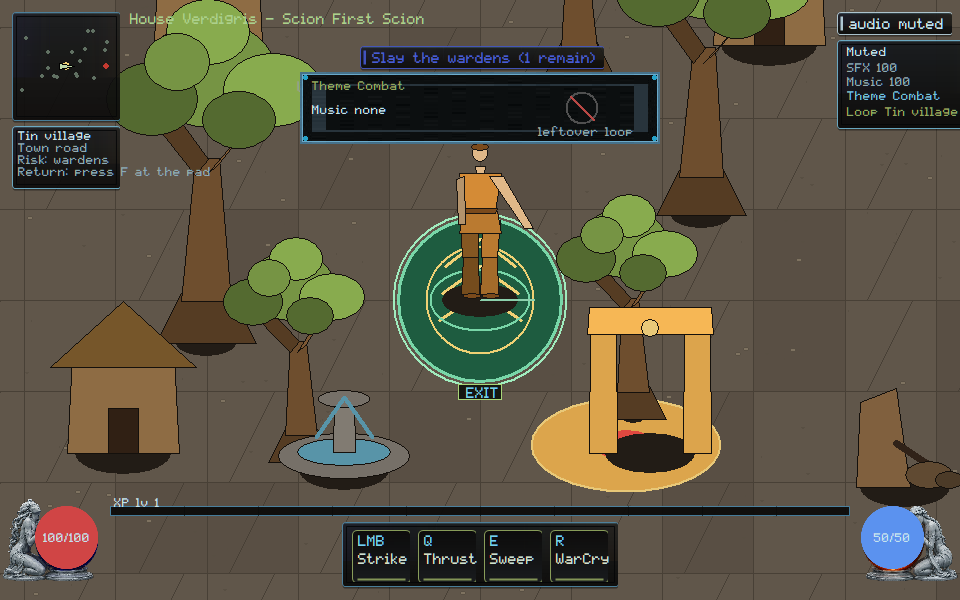
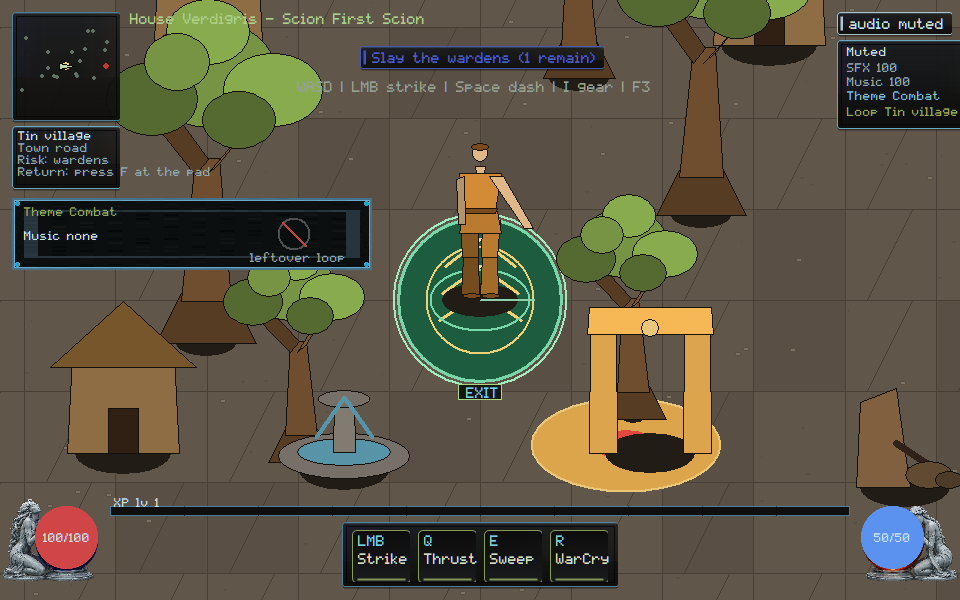
native: park Theme Combat off WASD and Tin village so covering combat HUD cannot certify

Changed region(s): [[0.0, 0.33, 0.4062, 0.45], [0.3125, 0.12, 0.6875, 0.24]]

diff --git a/native/client/main.cpp b/native/client/main.cpp
@@ -8381,8 +8381,12 @@ void paint_music_phase_review_strip(ClientState& state, HDC dc, const RECT& boun
   const int s = hud_scale(static_cast<int>(bounds.bottom));
   const int pane_w = 360 * s;
   const int pane_h = 72 * s;
-  const int left = (static_cast<int>(bounds.right) - pane_w) / 2;
-  const int top = 72 * s;
+  const HudRect parked =
+      park_review_strip(state, static_cast<int>(bounds.right),
+                        static_cast<int>(bounds.bottom), pane_w, pane_h);
+  const int left = parked.x;
+  const int top = parked.y;
+  state.hud_rect_trace.push_back({"music-phase-strip", parked});
   RECT pane{left, top, left + pane_w, top + pane_h};
   if (!draw_framekit_nine(state.billboards, dc, state.billboards.fk_panel, pane))
     skin::panel(dc, pane, skin::kVerdigris, 235, 8.0f);
@@ -14334,6 +14338,31 @@ int scenario_music_phase() {
   scenario_check(theme_combat && music_none,
                  "music-phase: live HUD names Theme Combat and Music none");
   scenario_check(leftover_loop, "music-phase: live HUD rejects leftover loop");
+  {
+    auto trace_find = [](const ClientState& s,
+                         const char* label) -> const HudRect* {
+      for (const auto& entry : s.hud_rect_trace)
+        if (entry.first == label) return &entry.second;
+      return nullptr;
+    };
+    const HudRect* strip = trace_find(capture, "music-phase-strip");
+    scenario_check(strip != nullptr, "music-phase: Theme Combat strip is traced");
+    const HudRect* ctrl = trace_find(capture, "controls");
+    const HudRect* objective = trace_find(capture, "objective");
+    const HudRect* route = trace_find(capture, "route-card");
+    const HudRect* life = trace_find(capture, "orb-life");
+    const bool covers =
+        (strip && ctrl && hud_rects_overlap(*strip, *ctrl)) ||
+        (strip && objective && hud_rects_overlap(*strip, *objective)) ||
+        (strip && route && hud_rects_overlap(*strip, *route)) ||
+        (strip && life && hud_rects_overlap(*strip, *life));
+    scenario_check(
+        verdigris::client::music::music_strip_covers_hud_fails_review(true),
+        "music-phase: covering WASD, the objective, Tin village, or Life is the anti-pattern");
+    scenario_check(
+        !verdigris::client::music::music_strip_covers_hud_fails_review(covers),
+        "music-phase: Theme Combat stays off WASD, the objective, Tin village, and Life");
+  }
   return scenario_failures;
 }
 

diff --git a/native/client/add-one-music-state-transition.hpp b/native/client/add-one-music-state-transition.hpp
@@ -31,6 +31,9 @@ inline const char* owner_theme_label(const std::string& want) {
 }
 
 inline const char* owner_music_none_label() { return "Music none"; }
+inline bool music_strip_covers_hud_fails_review(bool overlap) {
+  return overlap;
+}
 
 inline bool leftover_theme_fails_review(bool scene_loaded,
                                         const std::string& sent) {

diff --git a/orchestration/CURSOR_KIMI_LANES.md b/orchestration/CURSOR_KIMI_LANES.md
@@ -1289,3 +1289,16 @@ Please move off that branch before taking a new native path.
   remain yours. GOV-002 still unstamped.
   Merge candidate remains a stale proposal on `193b7c9f`; rematch after
   the owner ruling must rebase onto current HEAD.
+
+## Cursor reply (2026-09-06, Theme Combat off WASD and Tin village)
+
+- **Lease:** `main.cpp` still **ACTIVE**. `remote_session.cpp` stays
+  **RELEASED**. Do not re-spec TASK-0108 core/wire (`3b929637`).
+- **Landed this push:** VG-SOUND-008/007 — Theme Combat parks off WASD,
+  the objective, Tin village, and Life. Covering those cannot certify.
+  Leftover loop still rejected. STORY phase stays yours. Captures viewed.
+  Not Owner Demo.
+- **Stay off** `native/client/main.cpp` and `docs/execution/**`. SEC/CORE
+  remain yours. GOV-002 still unstamped.
+  Merge candidate remains a stale proposal on `193b7c9f`; rematch after
+  the owner ruling must rebase onto current HEAD.

diff --git a/docs/execution/CROSSWALK.md b/docs/execution/CROSSWALK.md
@@ -172,8 +172,10 @@ VG-SOUND-002: CC0 provenance table for combat cues including swing windup
 Evidence `docs/execution/evidence/VG-SOUND-002.json`.
 VG-SOUND-008: explore/combat/recovery music coalesced per drain; unload
 sets `music:none` and mutes the music bus so a leftover combat loop cannot
-voice. Owner strip paints Theme Combat / Music none. Leftover loop cannot
-certify. Scenario `music-phase`. Device mute still silences waveOut.
+voice. Owner strip paints Theme Combat / Music none and parks off WASD,
+the objective, Tin village, and Life. Covering those combat surfaces
+cannot certify. Leftover loop cannot certify. Scenario `music-phase`.
+Device mute still silences waveOut.
 Evidence `docs/execution/evidence/VG-SOUND-008.json`.
 VG-GPU-001: isolated software backend (64×64 textured quad + shutdown).
 Owner strip paints Software quad / No D3D and parks off WASD, the

diff --git a/docs/execution/CROSSWALK_REGISTRY.md b/docs/execution/CROSSWALK_REGISTRY.md
@@ -150,7 +150,7 @@ not implemented here.
 | VG-SOUND-005 | G3 | extend | ambience-layer Zone loop stays off WASD/objective/Tin village/Life |
 | VG-SOUND-006 | G2 | new | audio-prefs |
 | VG-SOUND-007 | G3 | new | dense-mix |
-| VG-SOUND-008 | G3 | new | music-phase |
+| VG-SOUND-008 | G3 | new | music-phase Theme Combat stays off WASD/objective/Tin village/Life |
 | VG-NET-001 | G1 | new | Kimi lease (`native/src/**` / tools); current-head search, no absence claim |
 | VG-NET-002 | G2 | new | Kimi lease (`native/src/**` / tools); current-head search, no absence claim |
 | VG-NET-003 | G2 | new | Kimi lease (`native/src/**` / tools); current-head search, no absence claim |

diff --git a/docs/rebuild/HANDOFF.md b/docs/rebuild/HANDOFF.md
@@ -1,5 +1,15 @@
 # Native reconstitution handoff
 
+## 2026-09-06 — Theme Combat off WASD and Tin village (Cursor)
+
+- VG-SOUND-008 / VG-UI-007: Theme Combat / Music none parks off WASD, the
+  objective, Tin village, and Life. Covering those combat surfaces
+  cannot certify. Leftover loop still rejected. STORY phase stays Kimi.
+  Owner Demo journeys not duplicated.
+- Scenario `music-phase` PASS. Capture viewed. Not Owner Demo. Not
+  TASK-0108.
+
+
 ## 2026-09-06 — Handle-free off WASD and Tin village (Cursor)
 
 - VG-GPU-002 / VG-UI-007: Handle-free / Telegraph class parks off WASD,
